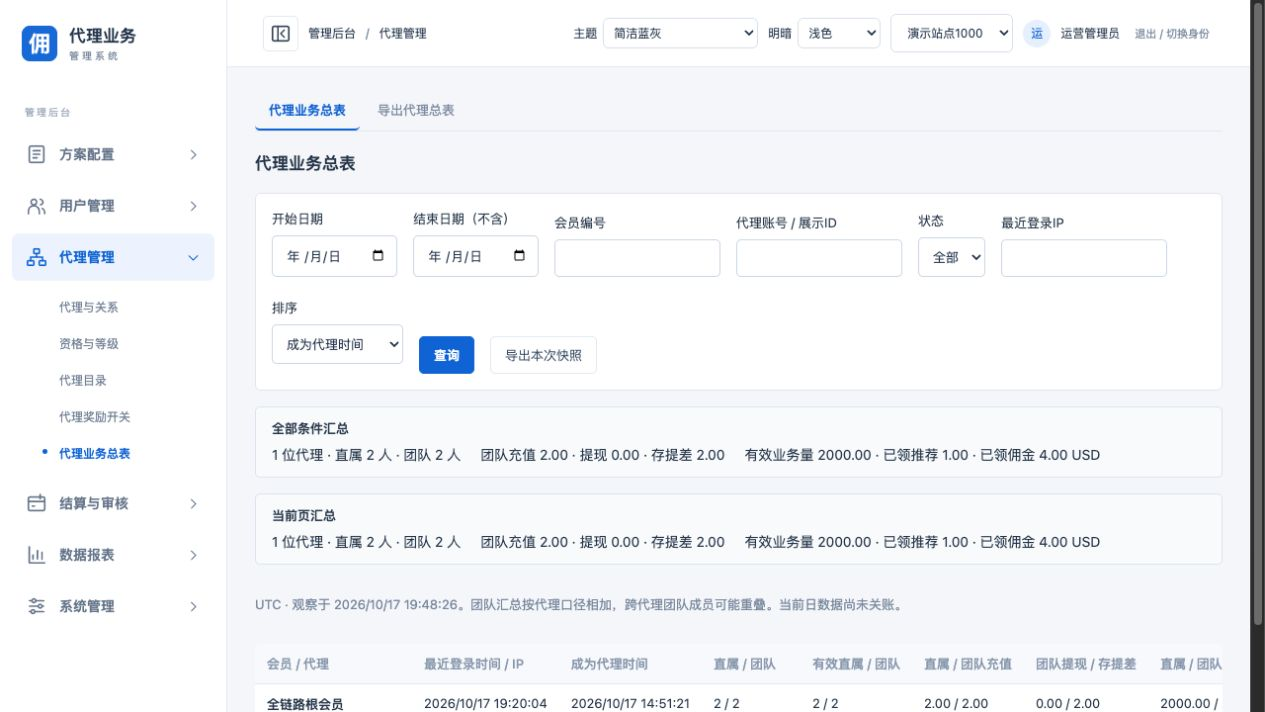
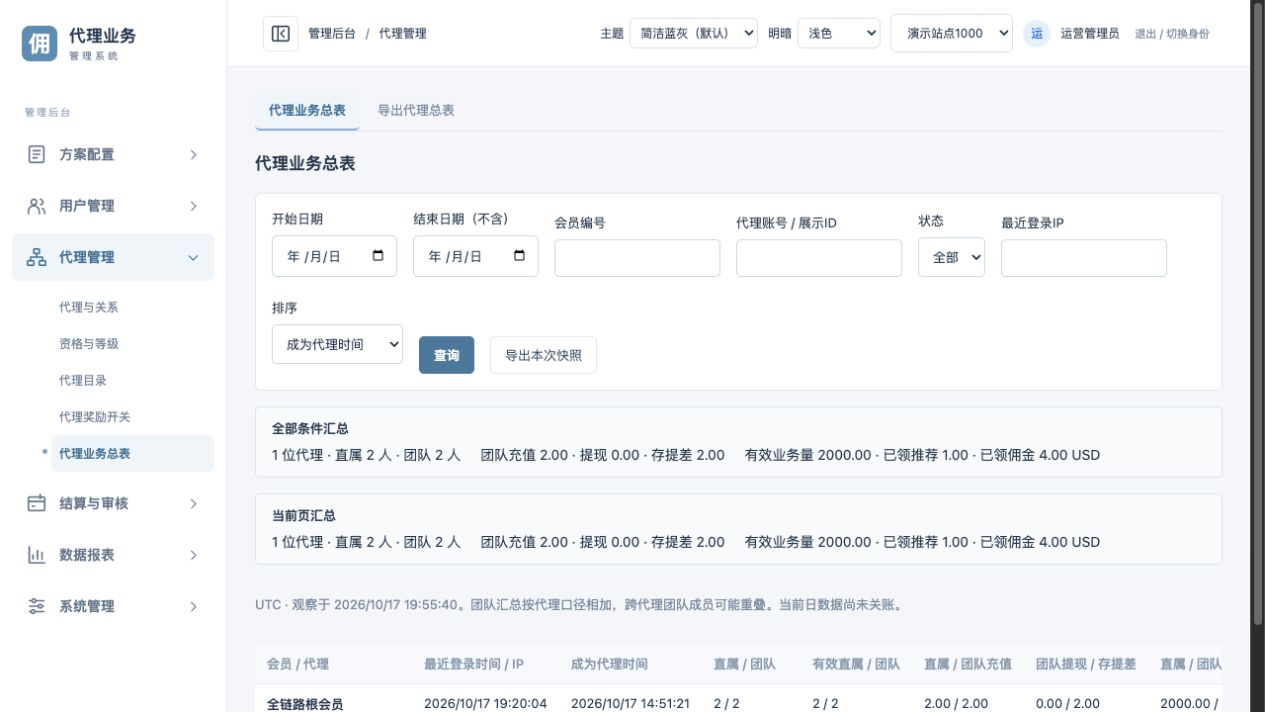
fix: 默认使用简洁蓝灰并柔化后台蓝色

diff --git a/src/modules/appearance/palettes.css b/src/modules/appearance/palettes.css
@@ -195,3 +195,30 @@
   )[data-appearance="dark"] {
   --blue: var(--appearance-accent);
 }
+
+/* 简洁蓝灰仅调淡浅色后台的交互蓝；文字保留对比度，会员页和深色模式沿用原配色。 */
+.app-shell[data-color-theme="simple"][data-appearance="light"] {
+  --blue: #507ba7;
+}
+.app-shell[data-color-theme="simple"][data-appearance="light"] .logo {
+  background: #628bb5;
+}
+.app-shell[data-color-theme="simple"][data-appearance="light"]
+  :is(.nav-main.active, .subnav .selected, .tabs .selected) {
+  color: #466f98;
+  background: #f0f5fa;
+}
+.app-shell[data-color-theme="simple"][data-appearance="light"] .tabs .selected {
+  border-bottom-color: #8faecb;
+}
+.app-shell[data-color-theme="simple"][data-appearance="light"] .subnav .selected::before {
+  background: #83a3c2;
+}
+.app-shell[data-color-theme="simple"][data-appearance="light"] .admin-content .primary {
+  background: #50779e;
+  border-color: #50779e;
+  color: #fff;
+}
+.app-shell[data-color-theme="simple"][data-appearance="light"] .admin-content .primary:hover {
+  background: #486f96;
+}

diff --git a/src/modules/appearance/AppearanceSelect.tsx b/src/modules/appearance/AppearanceSelect.tsx
@@ -19,8 +19,8 @@ export function AppearanceSelect({
           value={theme}
           onChange={(e) => onThemeChange(e.target.value as ColorTheme)}
         >
-          <option value="sap">SAP 经典蓝灰（默认）</option>
-          <option value="simple">简洁蓝灰</option>
+          <option value="sap">SAP 经典蓝灰</option>
+          <option value="simple">简洁蓝灰（默认）</option>
           <option value="sap-horizon">SAP Horizon</option>
           <option value="ibm">IBM Carbon</option>
         </select>

diff --git a/src/modules/appearance/useAppearance.ts b/src/modules/appearance/useAppearance.ts
@@ -12,8 +12,8 @@ function readColorTheme(): ColorTheme {
     )
       return value;
   } catch {}
-  // SAP为产品默认配色；旧default值或无偏好均自然迁移，显式IBM偏好仍保留。
-  return "sap";
+  // 无有效偏好时使用简洁蓝灰；已明确选择的其他主题继续保留。
+  return "simple";
 }
 export type Appearance = "light" | "dark" | "system";
 const key = "ec-admin-appearance-v1";

diff --git a/docs/前端模块划分.md b/docs/前端模块划分.md
@@ -2,11 +2,11 @@
 
 ## 页面入口
 
-19486后台右上角“主题”提供SAP经典蓝灰（默认）、简洁蓝灰、SAP Horizon和IBM Carbon。“明暗”独立选择浅色、深色或跟随系统。两项分别保存，刷新后保留；配色作用于管理后台，会员端和登录页继续使用原样式。
+19486后台右上角“主题”提供简洁蓝灰（默认）、SAP经典蓝灰、SAP Horizon和IBM Carbon。“明暗”独立选择浅色、深色或跟随系统。两项分别保存，刷新后保留；配色作用于管理后台，会员端和登录页继续使用原样式。
 
 SAP经典蓝灰参考用户提供的旧SAP Web Administration Interface截图，以淡蓝侧栏、蓝灰表头和紧凑边框呈现；颜色为近似重建，不是SAP官方主题包或逐像素还原。简洁蓝灰保留原有白色顶栏、白色侧栏和浅灰背景。
 
-Horizon及IBM配色参考：[SAP Morning Horizon](https://www.sap.com/design-system/fiori-design-web/v1-142/foundations/visual/colors/morning-horizon)、[IBM Carbon颜色令牌](https://www.carbondesignsystem.com/building-blocks/foundations/color/tokens)。只参考语义配色，不引入两套组件库。IBM浅色模式使用白色顶栏；Horizon浅色使用白色容器、浅灰页面和蓝色交互。无配色偏好或旧default值使用SAP经典蓝灰，已有显式选择保持。
+Horizon及IBM配色参考：[SAP Morning Horizon](https://www.sap.com/design-system/fiori-design-web/v1-142/foundations/visual/colors/morning-horizon)、[IBM Carbon颜色令牌](https://www.carbondesignsystem.com/building-blocks/foundations/color/tokens)。只参考语义配色，不引入两套组件库。IBM浅色模式使用白色顶栏；Horizon浅色使用白色容器、浅灰页面和蓝色交互。无配色偏好或旧default值使用简洁蓝灰，已有显式选择保持。
 
 ![SAP经典蓝灰](images/sap-classic.jpg)
 

diff --git a/docs/工程说明.md b/docs/工程说明.md
@@ -116,4 +116,4 @@ Node.js22及以上；执行 `npm ci`、`npm run build`、`npm start`。服务端
 
 ## 主题与前端模块
 
-后台右上角“主题”默认SAP经典蓝灰，可选择简洁蓝灰、SAP Horizon或IBM Carbon配色，“明暗”独立选择浅色、深色或跟随系统，分别记住选择。业务页面组合、侧栏和主题分别拆为独立模块，页面按需加载，共享金额工具不再依赖审核页面。职责与后续开发约定见[前端模块划分](前端模块划分.md)。
+后台右上角“主题”默认简洁蓝灰，可选择SAP经典蓝灰、SAP Horizon或IBM Carbon配色，“明暗”独立选择浅色、深色或跟随系统，分别记住选择。业务页面组合、侧栏和主题分别拆为独立模块，页面按需加载，共享金额工具不再依赖审核页面。职责与后续开发约定见[前端模块划分](前端模块划分.md)。
